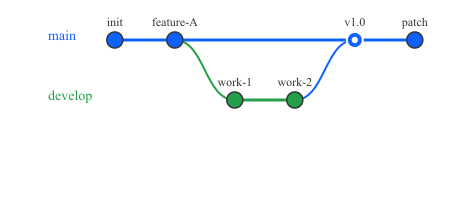
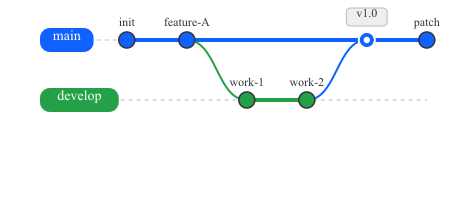
gitgraph: pill labels, lane baselines, tag callouts, HIGHLIGHT squares (#82)
* gitgraph: pill labels, lane baselines, tag callouts, HIGHLIGHT squares

Four visible regressions vs mermaid-cli on examples/gitgraph/
{simple,feature_branch}.mmd:

1. Branch labels rendered as plain colored text — mmdc wraps each in a
   rounded pill filled with the branch color and white text. Added a
   rect+text pair and per-pill padding/radius constants, plus a new
   theme BranchLabelText color.
2. No swimlane baselines. mmdc draws a dashed guide across each lane
   full-width so empty stretches still read as "this lane exists".
   Added a dashed line per branch behind the colored branch paths.
3. HIGHLIGHT commits rendered as a larger filled circle — mmdc uses an
   outlined square. Fast-pathed HIGHLIGHT in commitDot to emit a rect
   instead.
4. Tag text sat as plain text above the commit. mmdc floats the tag
   in a rounded callout chip (filled + outlined) distinct from plain
   commit-id text. New tagCallout helper and three theme fields
   (TagFill, TagText, TagStroke); tag rendering suppresses the
   commit-id text.

Added four regression tests (pill, baseline count, highlight square,
tag-suppresses-id).

Examples regenerated.

* gitgraph: drop dead Highlight branch, hoist tag consts

commitDot short-circuits for GitCommitHighlight (renders a square),
so the corresponding case in dotStyleFor is unreachable — remove it
and note the split in a doc comment.

Promote tagCallout's local padX/padY/gap/cornerR to package-level
[…]

Changed region(s): [[0.0615, 0.03, 0.9538, 0.57]]

diff --git a/pkg/renderer/gitgraph/renderer.go b/pkg/renderer/gitgraph/renderer.go
@@ -25,8 +25,15 @@ const (
 	marginX         = 40.0
 	marginY         = 40.0
 	labelGap        = 6.0
-	branchLabelPadX = 8.0
-
+	branchLabelPadX = 10.0
+	branchLabelPadY = 5.0
+	branchLabelR    = 10.0 // pill corner radius
+	branchPathW     = 4.0  // thick colored path between a branch's own commits
+	branchPathOp    = 1.0  // mmdc's branch paths are fully opaque
+	tagPadX         = 6.0
+	tagPadY         = 3.0
+	tagGap          = 14.0 // vertical gap from commit center to tag callout
+	tagCornerR      = 4.0  // tag callout corner radius
 )
 
 func Render(d *diagram.GitGraphDiagram, opts *Options) ([]byte, error) {
@@ -45,7 +52,11 @@ func Render(d *diagram.GitGraphDiagram, opts *Options) ([]byte, error) {
 		laneOf[b] = i
 	}
 
-	originX := marginX + branchGutterW(d.Branches, fontSize) + 2*branchLabelPadX
+	// `2*branchLabelPadX` covers the pill's own horizontal padding;
+	// `commitRadius` keeps the first commit's dot clear of the pill
+	// even when that commit sits on the branch with the longest name
+	// (otherwise the dot's left edge would overlap the pill's right).
+	originX := marginX + branchGutterW(d.Branches, fontSize) + 2*branchLabelPadX + commitRadius
 
 	cx := make(map[string]float64, len(d.Commits))
 	cy := make(map[string]float64, len(d.Commits))
@@ -80,22 +91,49 @@ func Render(d *diagram.GitGraphDiagram, opts *Options) ([]byte, error) {
 		},
 	}
 
+	// Swimlane baselines drawn first so colored branch paths and
+	// commit dots paint on top. Dashed neutral line runs full-width
+	// across each lane, matching mmdc's faint lane guide.
+	baselineX1 := originX - commitStride/2
+	baselineX2 := viewW - marginX
+	for i := range d.Branches {
+		y := laneY(i)
+		children = append(children, &line{
+			X1: svgFloat(baselineX1), Y1: svgFloat(y),
+			X2: svgFloat(baselineX2), Y2: svgFloat(y),
+			Style: fmt.Sprintf("stroke:%s;stroke-width:1;stroke-dasharray:4,4;fill:none", th.LaneGuide),
+		})
+	}
+
 	for i, b := range d.Branches {
 		color := colorFor(th, i)
 		y := laneY(i)
+		// Pill label: rounded rect filled with the branch color, white
+		// text centered inside — matches mmdc's branch-tag affordance.
+		labelW := textmeasure.EstimateWidth(b, fontSize)
+		pillW := labelW + 2*branchLabelPadX
+		pillH := fontSize + 2*branchLabelPadY
+		children = append(children, &rect{
+			X:      svgFloat(marginX),
+			Y:      svgFloat(y - pillH/2),
+			Width:  svgFloat(pillW),
+			Height: svgFloat(pillH),
+			RX:     svgFloat(branchLabelR), RY: svgFloat(branchLabelR),
+			Style: fmt.Sprintf("fill:%s;stroke:none", color),
+		})
 		children = append(children, &text{
-			X:        svgFloat(marginX + branchLabelPadX),
+			X:        svgFloat(marginX + pillW/2),
 			Y:        svgFloat(y),
-			Anchor:   "start",
+			Anchor:   "middle",
 			Dominant: "central",
-			Style:    fmt.Sprintf("fill:%s;font-size:%.0fpx;font-weight:bold", color, fontSize),
+			Style:    fmt.Sprintf("fill:%s;font-size:%.0fpx;font-weight:bold", th.BranchLabelText, fontSize),
 			Content:  b,
 		})
 		if r, ok := branchRange[b]; ok {
 			children = append(children, &line{
 				X1: svgFloat(r[0]), Y1: svgFloat(y),
 				X2: svgFloat(r[1]), Y2: svgFloat(y),
-				Style: fmt.Sprintf("stroke:%s;stroke-width:3;fill:none;opacity:0.6", color),
+				Style: fmt.Sprintf("stroke:%s;stroke-width:%g;fill:none;opacity:%g", color, branchPathW, branchPathOp),
 			})
 		}
 	}
@@ -126,18 +164,27 @@ func Render(d *diagram.GitGraphDiagram, opts *Options) ([]byte, error) {
 		x, y := cx[c.ID], cy[c.ID]
 		children = append(children, commitDot(c, x, y, color, th)...)
 
-		label := c.Tag
-		if label == "" {
-			label = c.ID
-		}
-		if label != "" {
+		// Tag takes precedence over id when both exist: mmdc shows the
+		// tag as a rounded callout above the commit, the commit id as
+		// plain text below.
+		if c.Tag != "" {
+			// HIGHLIGHT commits are squares reaching ±highlightRadius from
+			// the center; the default tagGap (14) leaves only 3px over a
+			// highlight square. Widen the gap for those so the callout
+			// doesn't kiss the glyph.
+			gap := tagGap
+			if c.Type == diagram.GitCommitHighlight {
+				gap = highlightRadius + labelGap
+			}
+			children = append(children, tagCallout(c.Tag, x, y, gap, fontSize, th)...)
+		} else if c.ID != "" {
 			children = append(children, &text{
 				X:        svgFloat(x),
 				Y:        svgFloat(y - commitRadius - labelGap),
 				Anchor:   "middle",
 				Dominant: "baseline",
 				Style:    fmt.Sprintf("fill:%s;font-size:%.0fpx", th.Text, fontSize-2),
-				Content:  label,
+				Content:  c.ID,
 			})
 		}
 	}
@@ -178,12 +225,13 @@ type dotStyle struct {
 	innerR  float64 // non-zero for merge commits — a small white dot on top
 }
 
+// dotStyleFor returns the circle style for a commit. Highlight commits
+// are handled separately in commitDot (they render as a square) and
+// never reach this function.
 func dotStyleFor(c diagram.GitCommit, color string, th Theme) dotStyle {
 	switch c.Type {
 	case diagram.GitCommitMerge:
 		return dotStyle{r: commitRadius, fill: color, stroke: th.DotStrokeFill, strokeW: 2, innerR: commitRadius * 0.4}
-	case diagram.GitCommitHighlight:
-		return dotStyle{r: highlightRadius, fill: color, stroke: th.Text, strokeW: 2}
 	case diagram.GitCommitReverse:
 		return dotStyle{r: commitRadius, fill: "none", stroke: color, strokeW: 3}
 	default:
@@ -192,6 +240,19 @@ func dotStyleFor(c diagram.GitCommit, color string, th Theme) dotStyle {
 }
 
 func commitDot(c diagram.GitCommit, x, y float64, color string, th Theme) []any {
+	// HIGHLIGHT commits render as an outlined square instead of a
+	// bigger circle — matches mmdc's "callout" glyph for emphasized
+	// commits and makes them distinct from merge/reverse dots.
+	if c.Type == diagram.GitCommitHighlight {
+		side := highlightRadius * 2
+		return []any{&rect{
+			X:      svgFloat(x - highlightRadius),
+			Y:      svgFloat(y - highlightRadius),
+			Width:  svgFloat(side),
+			Height: svgFloat(side),
+			Style:  fmt.Sprintf("fill:%s;stroke:%s;stroke-width:2", th.DotStrokeFill, color),
+		}}
+	}
 	s := dotStyleFor(c, color, th)
 	elems := []any{&circle{
 		CX: svgFloat(x), CY: svgFloat(y), R: svgFloat(s.r),
@@ -204,6 +265,34 @@ func commitDot(c diagram.GitCommit, x, y float64, color string, th Theme) []any 
 		})
 	}
 	return elems
+}
+
+// tagCallout draws a small rounded rect above (x,y) filled with the
+// theme's tag color, containing the tag text. mmdc shows the tag as a
+// floating callout distinct from the plain commit-id text.
+func tagCallout(tag string, x, y, gap, fontSize float64, th Theme) []any {
+	tagFont := fontSize - 2
+	tw := textmeasure.EstimateWidth(tag, tagFont)
+	w := tw + 2*tagPadX
+	h := tagFont + 2*tagPadY
+	bx := x - w/2
+	by := y - gap - h
+	return []any{
+		&rect{
+			X: svgFloat(bx), Y: svgFloat(by),
+			Width: svgFloat(w), Height: svgFloat(h),
+			RX: svgFloat(tagCornerR), RY: svgFloat(tagCornerR),
+			Style: fmt.Sprintf("fill:%s;stroke:%s;stroke-width:1", th.TagFill, th.TagStroke),
+		},
+		&text{
+			X:        svgFloat(x),
+			Y:        svgFloat(by + h/2),
+			Anchor:   "middle",
+			Dominant: "central",
+			Style:    fmt.Sprintf("fill:%s;font-size:%.0fpx", th.TagText, tagFont),
+			Content:  tag,
+		},
+	}
 }
 
 // curvePath draws a cubic Bezier that leaves parent (x1,y1) horizontal

diff --git a/pkg/renderer/gitgraph/renderer_test.go b/pkg/renderer/gitgraph/renderer_test.go
@@ -3,6 +3,7 @@ package gitgraph
 import (
 	"bytes"
 	"encoding/xml"
+	"fmt"
 	"strings"
 	"testing"
 
@@ -171,6 +172,106 @@ func TestRenderMissingParentSilentlySkipped(t *testing.T) {
 	}
 	if strings.Contains(raw, "ghost") {
 		t.Error("dangling parent ID should not appear in output")
+	}
+}
+
+// Branch label is rendered as a filled colored pill (rect) with white
+// text inside — the identifying mmdc affordance for swim lanes.
+func TestRenderBranchPill(t *testing.T) {
+	d := &diagram.GitGraphDiagram{
+		Branches: []string{"main", "dev"},
+		Commits: []diagram.GitCommit{
+			{ID: "c1", Branch: "main"},
+			{ID: "c2", Branch: "dev", Parents: []string{"c1"}},
+		},
+	}
+	out, err := Render(d, nil)
+	if err != nil {
+		t.Fatalf("Render: %v", err)
+	}
+	raw := string(out)
+	th := DefaultTheme()
+	// The first branch's color must appear as a rect fill (the pill)
+	// and the branch label text must use the pill text color.
+	pillFill := fmt.Sprintf(`fill:%s;stroke:none`, th.BranchColors[0])
+	if !strings.Contains(raw, pillFill) {
+		t.Errorf("expected pill backdrop %q in output", pillFill)
+	}
+	if !strings.Contains(raw, "fill:"+th.BranchLabelText) {
+		t.Errorf("expected pill text color %q", th.BranchLabelText)
+	}
+}
+
+// Swimlane baseline: one dashed line per branch, drawn under the
+// colored branch path, spanning the full chart.
+func TestRenderSwimlaneBaseline(t *testing.T) {
+	d := &diagram.GitGraphDiagram{
+		Branches: []string{"main", "dev"},
+		Commits: []diagram.GitCommit{
+			{ID: "c1", Branch: "main"},
+			{ID: "c2", Branch: "dev", Parents: []string{"c1"}},
+		},
+	}
+	out, err := Render(d, nil)
+	if err != nil {
+		t.Fatalf("Render: %v", err)
+	}
+	raw := string(out)
+	// Dashed baselines count: one per branch.
+	dashed := strings.Count(raw, "stroke-dasharray:4,4")
+	if dashed != len(d.Branches) {
+		t.Errorf("expected %d dashed swimlane lines, got %d", len(d.Branches), dashed)
+	}
+}
+
+// HIGHLIGHT commits render as an outlined square (rect with the
+// branch color stroke), not a larger circle.
+func TestRenderHighlightIsSquare(t *testing.T) {
+	d := &diagram.GitGraphDiagram{
+		Branches: []string{"main"},
+		Commits: []diagram.GitCommit{
+			{ID: "c1", Branch: "main", Type: diagram.GitCommitHighlight},
+		},
+	}
+	out, err := Render(d, nil)
+	if err != nil {
+		t.Fatalf("Render: %v", err)
+	}
+	raw := string(out)
+	th := DefaultTheme()
+	// A rect with the theme DotStrokeFill (white) and branch-color
+	// stroke uniquely identifies the highlight-as-square shape.
+	want := fmt.Sprintf("fill:%s;stroke:%s;stroke-width:2", th.DotStrokeFill, th.BranchColors[0])
+	if !strings.Contains(raw, want) {
+		t.Errorf("expected highlight square with %q", want)
+	}
+}
+
+// Tag renders as a rounded callout above the commit: a rect with
+// TagFill + TagStroke plus the tag text. A plain commit-id text on
+// the same commit must NOT be emitted (tag wins).
+func TestRenderTagCalloutSuppressesID(t *testing.T) {
+	d := &diagram.GitGraphDiagram{
+		Branches: []string{"main"},
+		Commits: []diagram.GitCommit{
+			{ID: "c1", Branch: "main", Tag: "v1.0"},
+		},
+	}
+	out, err := Render(d, nil)
+	if err != nil {
+		t.Fatalf("Render: %v", err)
+	}
+	raw := string(out)
+	th := DefaultTheme()
+	want := fmt.Sprintf("fill:%s;stroke:%s;stroke-width:1", th.TagFill, th.TagStroke)
+	if !strings.Contains(raw, want) {
+		t.Errorf("expected tag callout fill+stroke %q", want)
+	}
+	if !strings.Contains(raw, ">v1.0<") {
+		t.Error("tag text missing")
+	}
+	if strings.Contains(raw, ">c1<") {
+		t.Error("commit ID text should be suppressed when a tag is present")
 	}
 }
 

diff --git a/pkg/renderer/gitgraph/theme.go b/pkg/renderer/gitgraph/theme.go
@@ -3,10 +3,15 @@ package gitgraph
 // Theme holds gitgraph color surfaces. BranchColors cycles by branch
 // declaration order; lane 0 (main) picks the first entry.
 type Theme struct {
-	BranchColors  []string
-	Text          string
-	DotStrokeFill string // outer ring fill for highlight dots
-	Background    string
+	BranchColors    []string
+	Text            string
+	BranchLabelText string // text color inside the colored branch pill
+	DotStrokeFill   string // outer ring fill for highlight dots
+	LaneGuide       string // dashed swimlane baseline
+	TagFill         string // rounded tag callout background
+	TagText         string // tag callout text color
+	TagStroke       string // tag callout border
+	Background      string
 }
 
 func DefaultTheme() Theme {
@@ -15,9 +20,14 @@ func DefaultTheme() Theme {
 			"#0f62fe", "#24a148", "#f1c21b",
 			"#8a3ffc", "#ff7eb6", "#6fdc8c",
 		},
-		Text:          "#333",
-		DotStrokeFill: "#fff",
-		Background:    "#fff",
+		Text:            "#333",
+		BranchLabelText: "#fff",
+		DotStrokeFill:   "#fff",
+		LaneGuide:       "#bbb",
+		TagFill:         "#eeeeee",
+		TagText:         "#333",
+		TagStroke:       "#bbb",
+		Background:      "#fff",
 	}
 }
 
@@ -32,8 +42,23 @@ func resolveTheme(opts *Options) Theme {
 	if opts.Theme.Text != "" {
 		th.Text = opts.Theme.Text
 	}
+	if opts.Theme.BranchLabelText != "" {
+		th.BranchLabelText = opts.Theme.BranchLabelText
+	}
 	if opts.Theme.DotStrokeFill != "" {
 		th.DotStrokeFill = opts.Theme.DotStrokeFill
+	}
+	if opts.Theme.LaneGuide != "" {
+		th.LaneGuide = opts.Theme.LaneGuide
+	}
+	if opts.Theme.TagFill != "" {
+		th.TagFill = opts.Theme.TagFill
+	}
+	if opts.Theme.TagText != "" {
+		th.TagText = opts.Theme.TagText
+	}
+	if opts.Theme.TagStroke != "" {
+		th.TagStroke = opts.Theme.TagStroke
 	}
 	if opts.Theme.Background != "" {
 		th.Background = opts.Theme.Background
